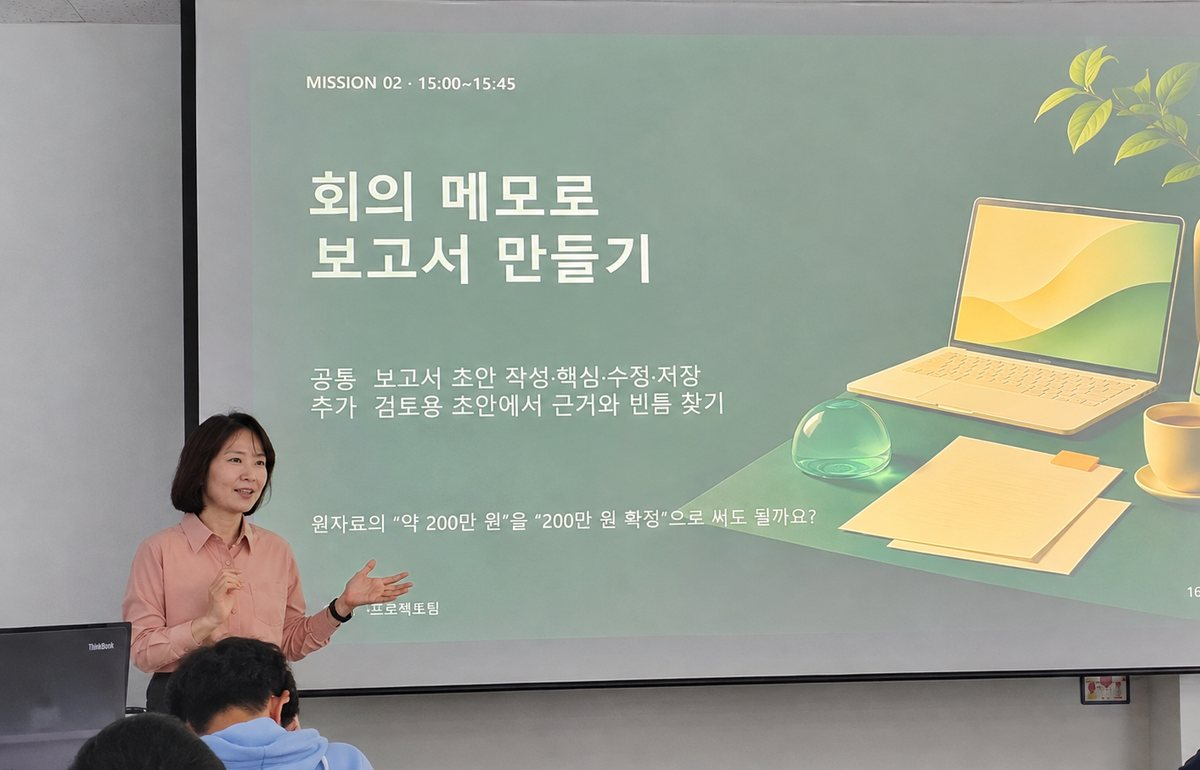
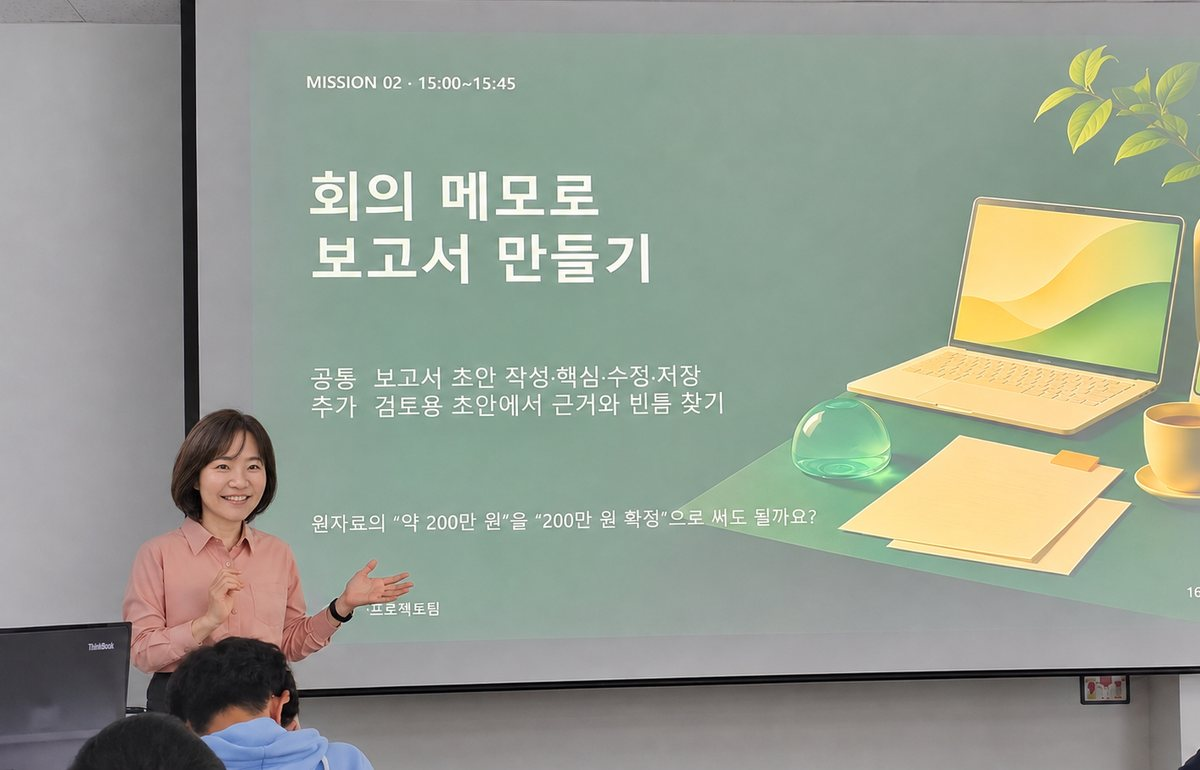
영상 표지와 사례 사진 교체

diff --git a/index.html b/index.html
@@ -1259,14 +1259,14 @@
   <h2>업무 AI 특강 현장</h2>
   <p class="video-caption">목포청년센터 누리 「생성형 AI로 완성하는 일잘러 업무스킬」 · 2026년 11월</p>
   <div class="video-embed" id="video-embed">
-    <video controls preload="metadata" playsinline poster="videos/mokpo-poster.jpg" aria-label="목포청년센터 업무 AI 특강 1분 하이라이트 영상 (화면 자막 포함)">
+    <video controls preload="metadata" playsinline poster="videos/mokpo-poster.jpg?v=2" aria-label="목포청년센터 업무 AI 특강 1분 하이라이트 영상 (화면 자막 포함)">
       <source src="videos/mokpo-highlight.mp4" type="video/mp4">
       이 브라우저에서는 동영상을 재생할 수 없습니다.
     </video>
   </div>
 
   <article class="case-card">
-    <img class="case-photo" src="images/mokpo-class.jpg" alt="이보라 강사가 '회의 메모로 보고서 만들기' 실습 화면 앞에서 설명하는 모습" width="1200" height="770" loading="lazy" decoding="async">
+    <img class="case-photo" src="images/mokpo-class.jpg?v=2" alt="이보라 강사가 '회의 메모로 보고서 만들기' 실습 화면 앞에서 설명하는 모습" width="1200" height="770" loading="lazy" decoding="async">
     <div class="case-body">
       <span class="made-tag">출강 사례 · 목포청년센터 누리</span>
       <dl class="case-list">
